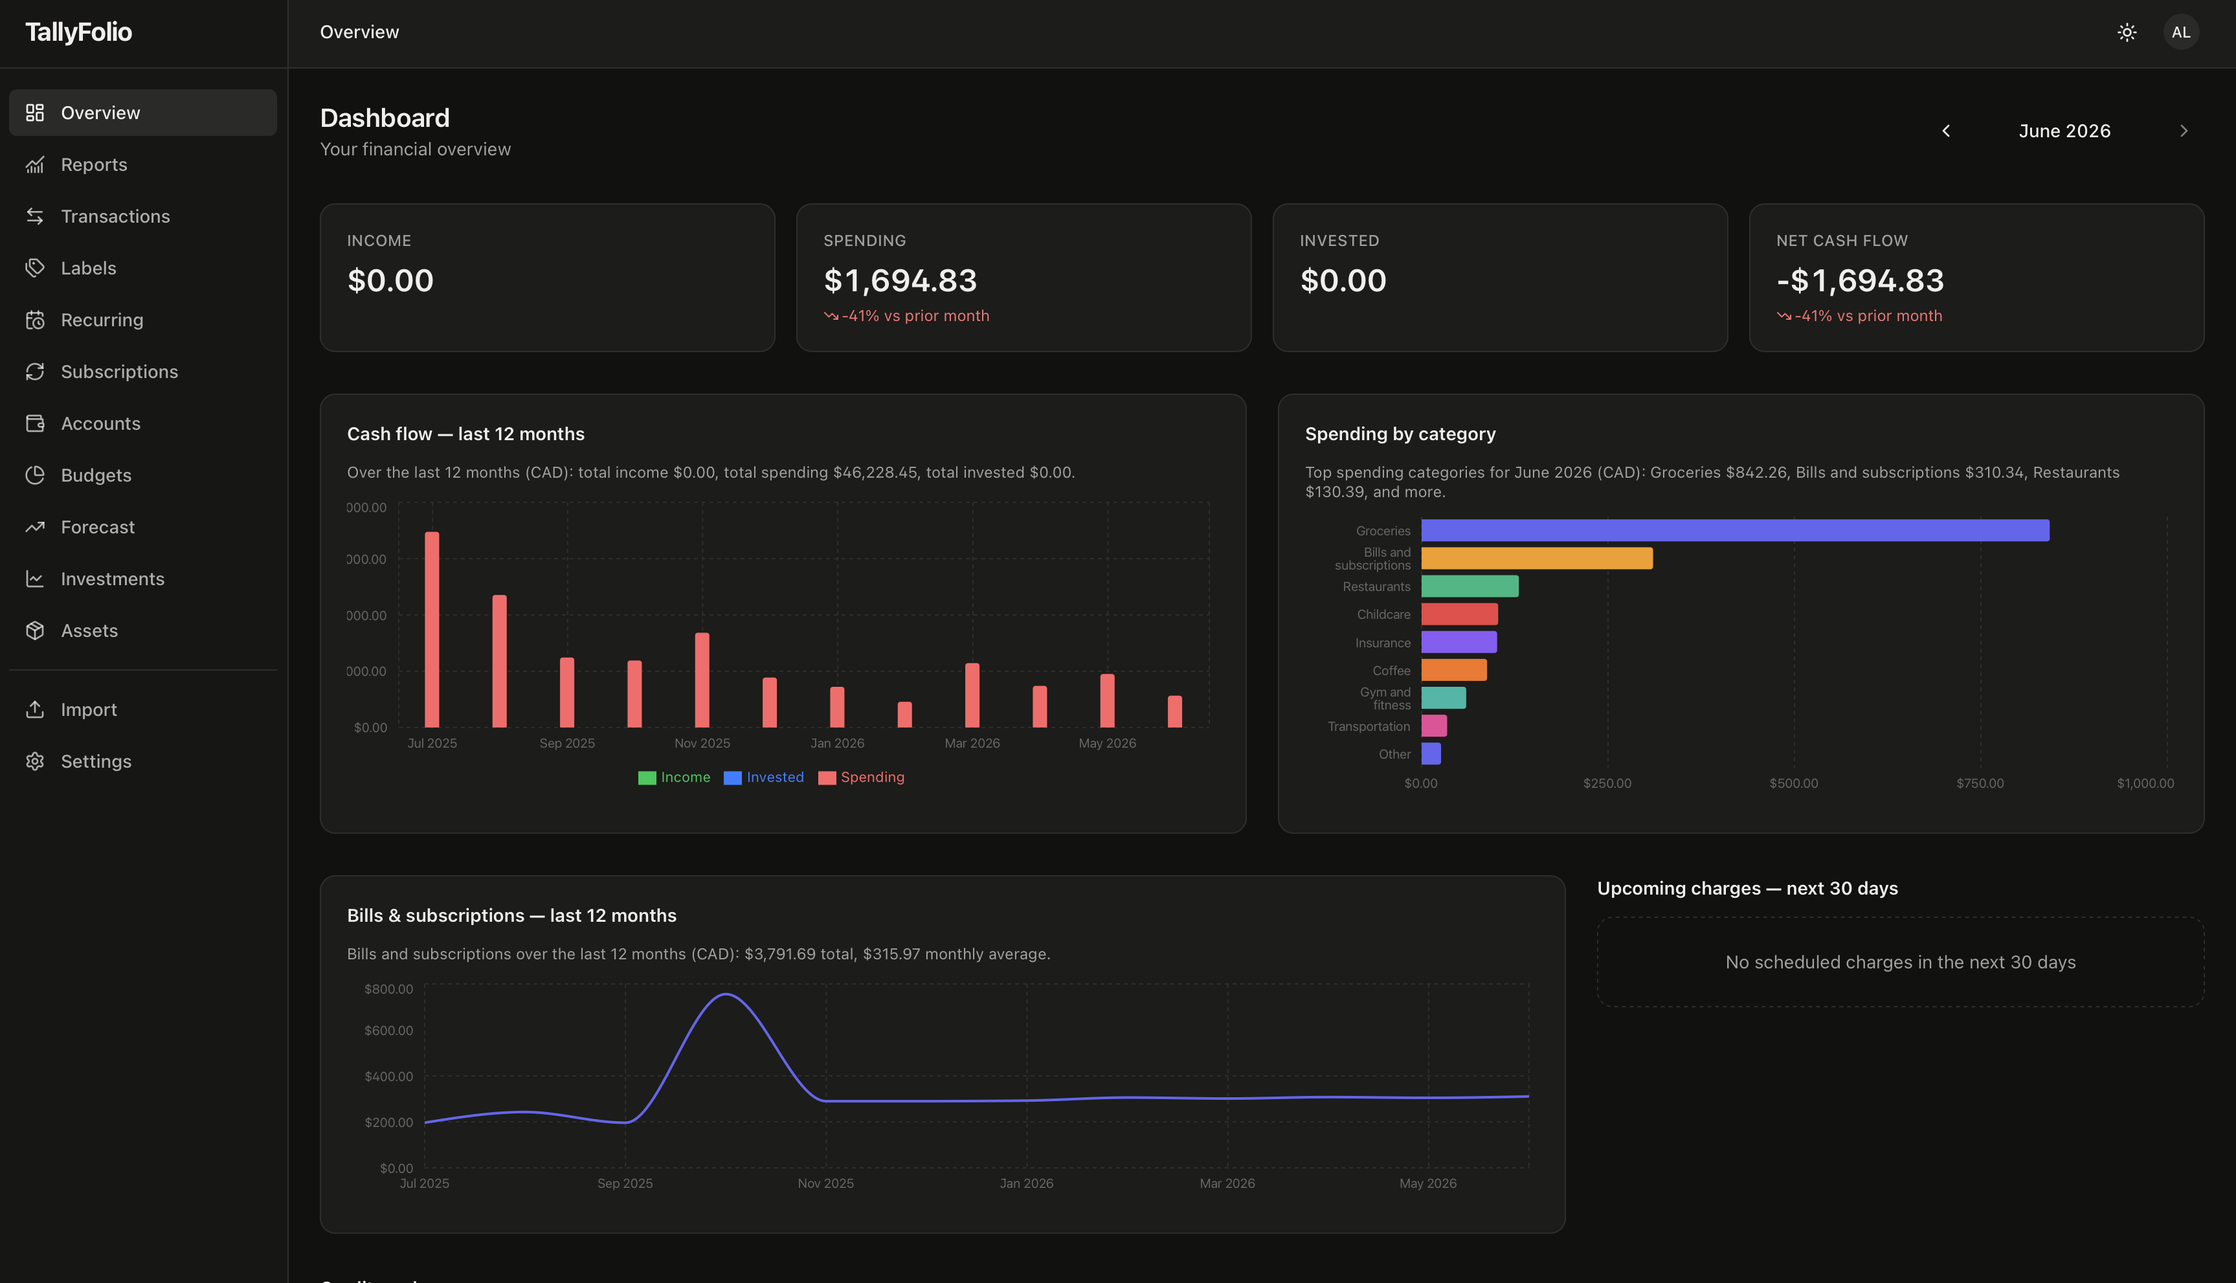
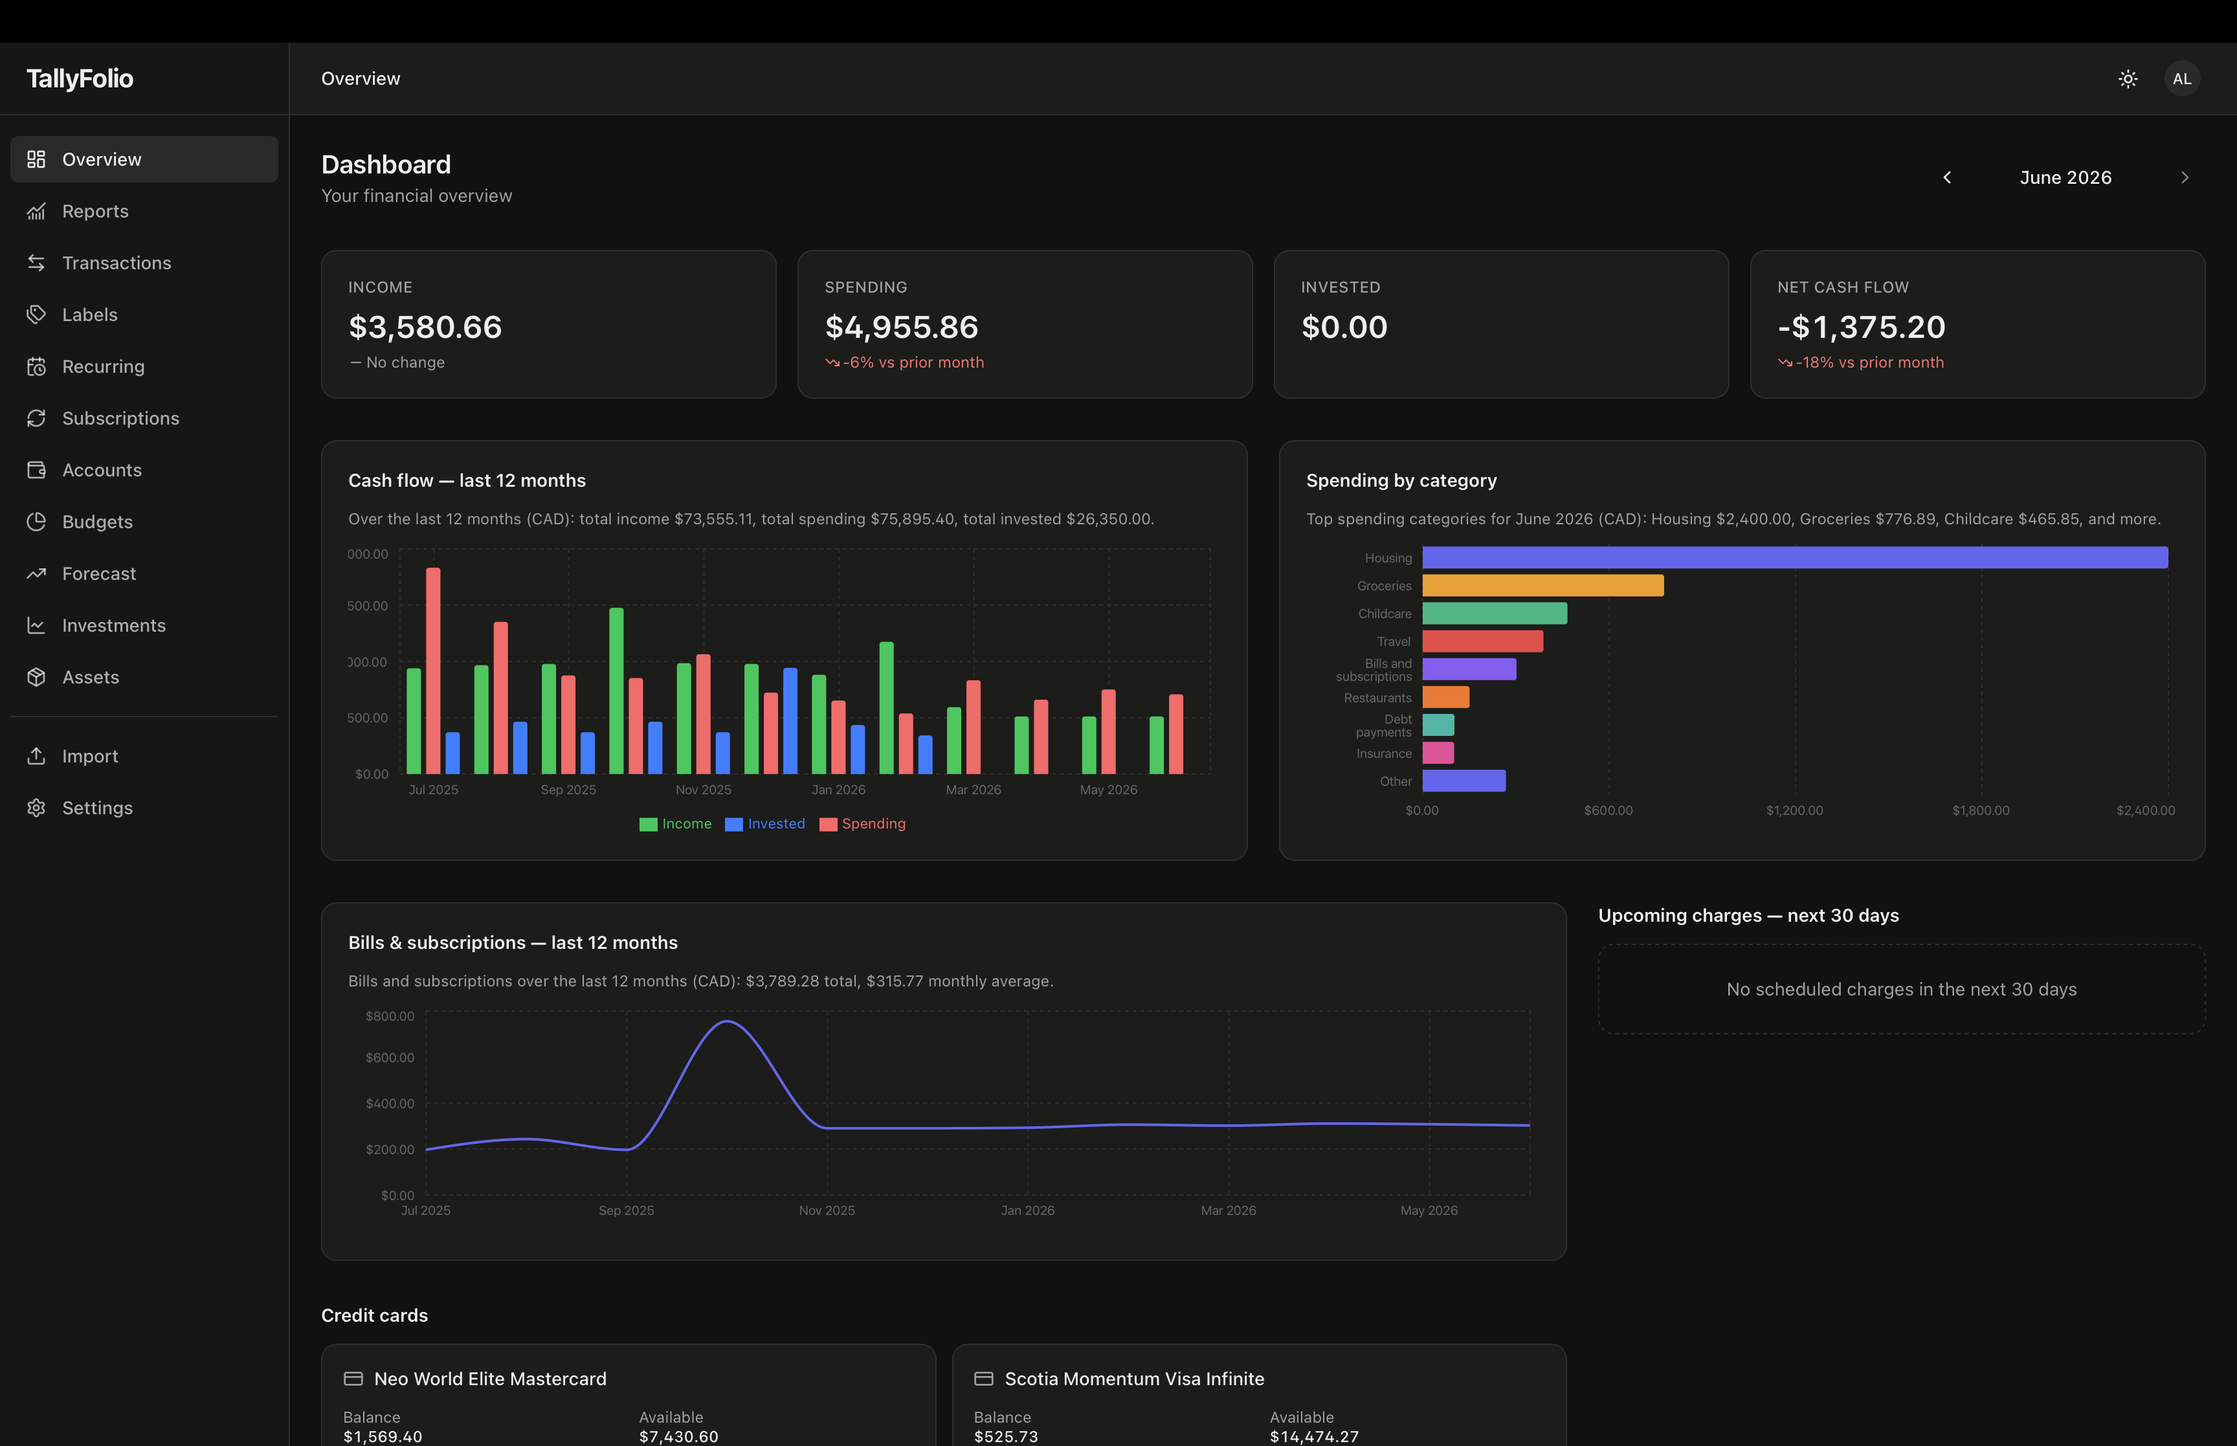
Add TallyFolio case study to portfolio data, routes, and tests

diff --git a/data/projects.ts b/data/projects.ts
@@ -69,6 +69,7 @@ export const PORTFOLIO_META_DESCRIPTION =
 export const PORTFOLIO_CASE_STUDY_ORDER = [
   "ledgerguard",
   "alwaysgeeky",
+  "tallyfolio",
   "emplifi",
   "controltech",
   "agent-tooling",
@@ -189,6 +190,110 @@ export const PROJECTS: Project[] = [
         href: "/writing/ledgerguard-truth-between-extraction-and-finance",
       },
     ],
+  },
+  {
+    id: "tallyfolio",
+    slug: "tallyfolio",
+    hasDedicatedCaseStudy: true,
+    name: "TallyFolio",
+    caseStudyTitle: "Privacy-first personal finance tracker",
+    caseStudyMetaTitle: "TallyFolio — Privacy-first Personal Finance Tracker · Ali Pajand",
+    caseStudyMetaDescription:
+      "Case study: Privacy-first personal finance tracker built as a manual-first PWA. Next.js, TypeScript, deterministic financial calculations, import review workflows, and production-grade auth. Ali Pajand.",
+    employerContext:
+      "Full-stack PWA for manual-first personal finance tracking, reporting, forecasting, and asset management.",
+    cardProblem:
+      "Most personal finance apps force users into bank aggregation or spreadsheets. TallyFolio needed modern product workflows without giving up privacy or manual control.",
+    role: "Founder · Product Engineer · Designer",
+    timeframe: "Independent",
+    capabilityTags: ["Full-stack product", "Financial correctness", "Privacy boundaries"],
+    caseStudy: {
+      overview:
+        "A full-stack PWA for manual-first personal finance tracking, built with deterministic financial calculations, CSV import workflows, reports, forecasting, subscriptions, investments, and asset tracking.",
+      context:
+        "TallyFolio is a manual-first personal finance product built around privacy, deterministic calculations, and everyday workflows that do not depend on bank aggregation. The product needed modern import, reporting, and forecasting UX without losing user control over the data model.",
+      problem:
+        "Most personal finance apps force users into either bank aggregation or spreadsheets. I wanted a private, manual-first system that could still provide modern product workflows: import review, categorization, subscriptions, cash-flow forecasting, investment contributions, reports, and asset tracking.",
+      myRole: [
+        "Defined the product strategy, UX, frontend architecture, backend shape, and data model.",
+        "Built the authenticated product workflows for imports, reporting, budgets, forecasting, subscriptions, investments, and assets.",
+        "Designed the system boundaries around deterministic finance logic, privacy, and optional AI explanations.",
+      ],
+      whatIBuilt: [
+        "Dashboard and authenticated home workflows.",
+        "CSV import review and transaction management.",
+        "Budgets, reports, subscriptions, recurring schedules, and forecast views.",
+        "Investments, asset register, and export/settings flows.",
+        "Public landing and support pages for the product.",
+      ],
+      technicalDecisions: [
+        {
+          decision:
+            "Store financial values as integer minor units and keep calculations in pure domain modules.",
+          why: "Budgets, forecasts, reports, subscriptions, investments, and assets all needed deterministic results that could be tested and explained.",
+          tradeOff:
+            "This adds domain-modeling overhead compared with scattering financial math across UI and persistence layers.",
+          result:
+            "Totals, forecasts, and finance workflows remain deterministic and easier to validate.",
+        },
+        {
+          decision:
+            "Make imports manual-first and parse CSV/XLSX files in memory for review rather than persisting raw files.",
+          why: "The product needed modern import workflows without giving up user control or widening the privacy surface unnecessarily.",
+          tradeOff:
+            "Manual review adds friction compared with fully automated ingestion and requires more explicit UI states.",
+          result:
+            "Import review stays privacy-conscious and gives users a clearer verification step before data becomes product state.",
+        },
+        {
+          decision:
+            "Keep AI usage optional and constrained to explaining already-computed figures rather than generating new financial advice.",
+          why: "Financial trust depends on the product staying explicit about what is deterministic system output versus optional interpretation.",
+          tradeOff:
+            "This keeps the AI surface narrower and less flashy than broader assistant-style features.",
+          result:
+            "The product can offer assistance without weakening the boundary around financial correctness.",
+        },
+      ],
+      uxDecisions: [
+        "Used a manual-first import flow instead of requiring bank aggregation so users stay in control of what enters the system.",
+        "Modeled subscriptions and recurring schedules as first-class workflows so forecasting stays aligned to schedule truth rather than transaction guesswork.",
+        "Kept the product mobile/PWA-friendly for everyday use instead of assuming a desktop-only finance workflow.",
+        "Separated asset tracking from everyday spending flows so investment and cash workflows do not blur together in the UI.",
+      ],
+      interfaceEvidence: [
+        {
+          type: "image",
+          src: "/portfolio-media/tallyfolio-landing.png",
+          width: 3456,
+          height: 2234,
+          alt: "TallyFolio landing page",
+          captionLead: "Landing page.",
+          captionBody:
+            "Public landing and support pages introduce the manual-first product positioning before authenticated finance workflows.",
+        },
+        {
+          type: "image",
+          src: "/portfolio-media/tallyfolio-dashboard.png",
+          width: 3454,
+          height: 1982,
+          alt: "TallyFolio dashboard showing manual-first finance summaries, recent activity, and navigation into budgets, reports, and import workflows.",
+          captionLead: "Dashboard.",
+          captionBody:
+            "The authenticated home surface orients everyday personal finance work around deterministic totals and clear paths into import review, budgets, and reporting.",
+        },
+      ],
+      outcome: [
+        "Shipped a live full-stack finance product with privacy-conscious workflows and production-grade auth.",
+        "Established deterministic finance logic across budgets, reports, forecasts, subscriptions, investments, and asset tracking.",
+        "Created modern import and review workflows without depending on bank aggregation as the product baseline.",
+      ],
+      nextImprovements: [
+        "Expand more product-level evidence around forecast edge cases, import recovery, and mobile-specific workflow detail.",
+        "Continue refining the boundary between deterministic finance output and optional AI explanations as the product grows.",
+      ],
+    },
+    relatedLinks: [{ label: "Live product", href: "https://tallyfolio.com" }],
   },
   {
     id: "alwaysgeeky",

diff --git a/utils/__tests__/projects.spec.ts b/utils/__tests__/projects.spec.ts
@@ -14,6 +14,7 @@ describe("utils/projects", () => {
     expect(getOrderedProjects().map((project) => project.slug)).toEqual([
       "ledgerguard",
       "alwaysgeeky",
+      "tallyfolio",
       "emplifi",
       "controltech",
       "agent-tooling",
@@ -31,6 +32,7 @@ describe("utils/projects", () => {
     expect(getDedicatedCaseStudyProjects().map((project) => project.slug)).toEqual([
       "ledgerguard",
       "alwaysgeeky",
+      "tallyfolio",
       "emplifi",
       "controltech",
       "agent-tooling",
@@ -43,6 +45,7 @@ describe("utils/projects", () => {
     expect(getDedicatedCaseStudySlugs()).toEqual([
       "ledgerguard",
       "alwaysgeeky",
+      "tallyfolio",
       "emplifi",
       "controltech",
       "agent-tooling",
@@ -52,7 +55,8 @@ describe("utils/projects", () => {
 
   it("should return the next dedicated case study in order", () => {
     expect(getNextDedicatedCaseStudyProject("ledgerguard")?.slug).toBe("alwaysgeeky");
-    expect(getNextDedicatedCaseStudyProject("alwaysgeeky")?.slug).toBe("emplifi");
+    expect(getNextDedicatedCaseStudyProject("alwaysgeeky")?.slug).toBe("tallyfolio");
+    expect(getNextDedicatedCaseStudyProject("tallyfolio")?.slug).toBe("emplifi");
     expect(getNextDedicatedCaseStudyProject("emplifi")?.slug).toBe("controltech");
     expect(getNextDedicatedCaseStudyProject("controltech")?.slug).toBe("agent-tooling");
     expect(getNextDedicatedCaseStudyProject("agent-tooling")?.slug).toBe("mapbylaw");

diff --git a/data/homepage.ts b/data/homepage.ts
@@ -31,25 +31,6 @@ export const HOMEPAGE_HERO_PRIMARY_CTA_HREF = "/portfolio";
 export const HOMEPAGE_HERO_SECONDARY_CTA_LABEL = "Get in touch";
 export const HOMEPAGE_HERO_SECONDARY_CTA_HREF = "/#contact";
 
-export const HOMEPAGE_PROOF_POINTS: HomepageProofPoint[] = [
-  {
-    title: "Frontend Architecture",
-    body: "React, Next.js App Router, TypeScript. Complex product workflows, state management, API contracts, and server/client component boundaries.",
-  },
-  {
-    title: "Design Systems",
-    body: "Shared component libraries with Storybook, design tokens, accessible component APIs, and consistent loading, error, and empty states across product surfaces.",
-  },
-  {
-    title: "AI Product UI",
-    body: "Human-in-the-loop review flows, async extraction states, and UI patterns that make the boundary between AI-suggested and user-confirmed data explicit.",
-  },
-  {
-    title: "Dashboards & Performance",
-    body: "D3.js data visualizations, rendering optimization, production error monitoring, and dashboard UX tuned for large datasets and embedded contexts.",
-  },
-];
-
 export const HOMEPAGE_CASE_STUDIES_HEADING = "Selected Work";
 export const HOMEPAGE_CASE_STUDIES_LEDE =
   "A recruiter-friendly preview of production work across AI-assisted workflows, design systems, enterprise dashboards, startup delivery, and developer tooling.";

diff --git a/app/portfolio/__tests__/portfolioRoutes.spec.ts b/app/portfolio/__tests__/portfolioRoutes.spec.ts
@@ -26,7 +26,7 @@ describe("portfolio case-study routes", () => {
 
   it("should generate unique metadata per case study", () => {
     const ledgerguard = buildPortfolioCaseStudyMetadata(getProjectBySlug("ledgerguard")!);
-    const alwaysgeeky = buildPortfolioCaseStudyMetadata(getProjectBySlug("alwaysgeeky")!);
+    const tallyfolio = buildPortfolioCaseStudyMetadata(getProjectBySlug("tallyfolio")!);
 
     expect(ledgerguard.title).toEqual({
       absolute: "LedgerGuard — AI Contract Intelligence SaaS · Ali Pajand",
@@ -35,8 +35,10 @@ describe("portfolio case-study routes", () => {
       "Case study: Multi-tenant SaaS for AI contract intelligence. Next.js App Router, TypeScript, human-in-the-loop review UI, async AI extraction states, and document ingestion. Ali Pajand, Senior Product Engineer."
     );
     expect(ledgerguard.alternates?.canonical).toBe(`${CANONICAL_URL}/portfolio/ledgerguard`);
-    expect(alwaysgeeky.title).not.toEqual(ledgerguard.title);
-    expect(alwaysgeeky.description).not.toEqual(ledgerguard.description);
+    expect(tallyfolio.title).toEqual({
+      absolute: "TallyFolio — Privacy-first Personal Finance Tracker · Ali Pajand",
+    });
+    expect(tallyfolio.description).not.toEqual(ledgerguard.description);
   });
 
   it("should expose dedicated case-study URLs for sitemap generation", () => {

diff --git a/components/Projects/__tests__/ProjectCaseStudyArticle.spec.tsx b/components/Projects/__tests__/ProjectCaseStudyArticle.spec.tsx
@@ -26,7 +26,7 @@ jest.mock("next/link", () => {
 
 describe("ProjectCaseStudyArticle", () => {
   const dedicatedProjects = getDedicatedCaseStudyProjects();
-  const [ledgerguard, alwaysgeeky, emplifi] = dedicatedProjects;
+  const [ledgerguard, alwaysgeeky, tallyfolio, emplifi] = dedicatedProjects;
 
   it("should use dedicated routes for next-project navigation on case-study pages", () => {
     render(
@@ -75,5 +75,14 @@ describe("ProjectCaseStudyArticle", () => {
     expect(screen.getByRole("heading", { name: "Outcome" })).toBeInTheDocument();
     expect(screen.getByRole("heading", { name: "What I would improve" })).toBeInTheDocument();
     expect(screen.queryByRole("heading", { name: "Product decisions" })).not.toBeInTheDocument();
+  });
+
+  it("should render tallyfolio as a standard dedicated case study", () => {
+    render(<ProjectCaseStudyArticle project={tallyfolio} isDedicatedPage />);
+
+    expect(screen.getByRole("heading", { level: 1, name: "TallyFolio" })).toBeInTheDocument();
+    expect(screen.getByRole("heading", { name: "Context" })).toBeInTheDocument();
+    expect(screen.getByRole("heading", { name: "Technical decisions" })).toBeInTheDocument();
+    expect(screen.getByRole("heading", { name: "Outcome" })).toBeInTheDocument();
   });
 });

diff --git a/components/Projects/__tests__/ProjectIndex.spec.tsx b/components/Projects/__tests__/ProjectIndex.spec.tsx
@@ -25,6 +25,7 @@ describe("ProjectIndex", () => {
     expect(
       screen.getByRole("heading", { level: 2, name: "AlwaysGeeky Games" })
     ).toBeInTheDocument();
+    expect(screen.getByRole("heading", { level: 2, name: "TallyFolio" })).toBeInTheDocument();
     expect(screen.getByRole("heading", { level: 2, name: "Emplifi" })).toBeInTheDocument();
     expect(screen.getByRole("heading", { level: 2, name: "ControlTech" })).toBeInTheDocument();
     expect(
@@ -52,6 +53,7 @@ describe("ProjectIndex", () => {
     ).toEqual([
       "/portfolio/ledgerguard",
       "/portfolio/alwaysgeeky",
+      "/portfolio/tallyfolio",
       "/portfolio/emplifi",
       "/portfolio/controltech",
       "/portfolio/agent-tooling",
@@ -64,6 +66,7 @@ describe("ProjectIndex", () => {
 
     expect(document.getElementById("project-ledgerguard")).toBeInTheDocument();
     expect(document.getElementById("project-alwaysgeeky")).toBeInTheDocument();
+    expect(document.getElementById("project-tallyfolio")).toBeInTheDocument();
     expect(document.getElementById("project-emplifi")).toBeInTheDocument();
     expect(document.getElementById("project-controltech")).toBeInTheDocument();
     expect(document.getElementById("project-agent-tooling")).toBeInTheDocument();

diff --git a/components/SelectedWork/SelectedWorkCard.tsx b/components/SelectedWork/SelectedWorkCard.tsx
@@ -26,6 +26,7 @@ export const SelectedWorkCard = ({ caseStudy }: { caseStudy: HomepageCaseStudy }
               src={caseStudy.image.src}
               alt={caseStudy.image.alt}
               fill
+              loading="eager"
               className="object-cover object-top"
               sizes="(max-width: 768px) 100vw, 50vw"
             />

diff --git a/components/Projects/ProjectFigure.tsx b/components/Projects/ProjectFigure.tsx
@@ -18,6 +18,7 @@ export const ProjectFigure = ({ figure }: ProjectFigureProps) => {
           alt={figure.alt}
           width={figure.width}
           height={figure.height}
+          loading="eager"
           className="h-auto w-full"
         />
       ) : figure.type === "image" ? (

diff --git a/components/Hero/Hero.tsx b/components/Hero/Hero.tsx
@@ -11,7 +11,6 @@ import {
   HOMEPAGE_HERO_PRIMARY_CTA_LABEL,
   HOMEPAGE_HERO_SECONDARY_CTA_HREF,
   HOMEPAGE_HERO_SECONDARY_CTA_LABEL,
-  HOMEPAGE_PROOF_POINTS,
   HOMEPAGE_HERO_TITLE,
 } from "data/homepage";
 import { HeroBackground } from "components/Hero/HeroBackground";

diff --git a/utils/__tests__/portfolioInternalLinks.spec.ts b/utils/__tests__/portfolioInternalLinks.spec.ts
@@ -22,6 +22,7 @@ describe("portfolio internal links", () => {
     expect(getDedicatedCaseStudySlugs()).toEqual([
       "ledgerguard",
       "alwaysgeeky",
+      "tallyfolio",
       "emplifi",
       "controltech",
       "agent-tooling",
